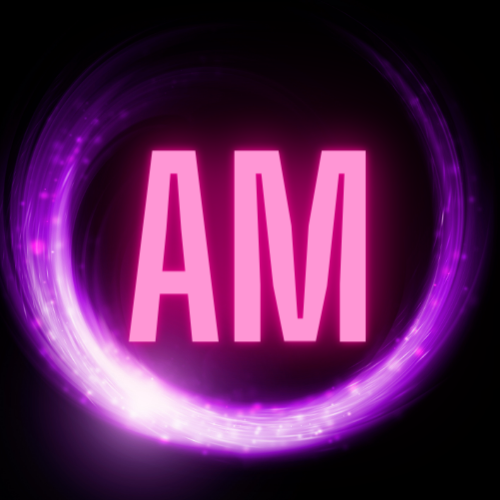
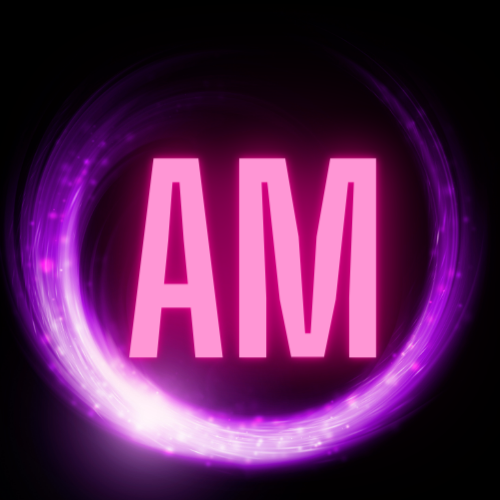
awdad

diff --git a/index.html b/index.html
@@ -10,7 +10,7 @@
     <meta charset="UTF-8">
     <meta name="viewport" content="width=device-width, initial-scale=1.0">
     <title>Anis Mondal</title>
-        <link rel='icon' href='images/img4.png'>
+        <link rel='icon' href='images/AM.png'>
     <link rel="stylesheet" href="style.css">
     <script src="https://kit.fontawesome.com/a076d05399.js"></script>
     <script src="https://code.jquery.com/jquery-3.5.1.min.js"></script>
